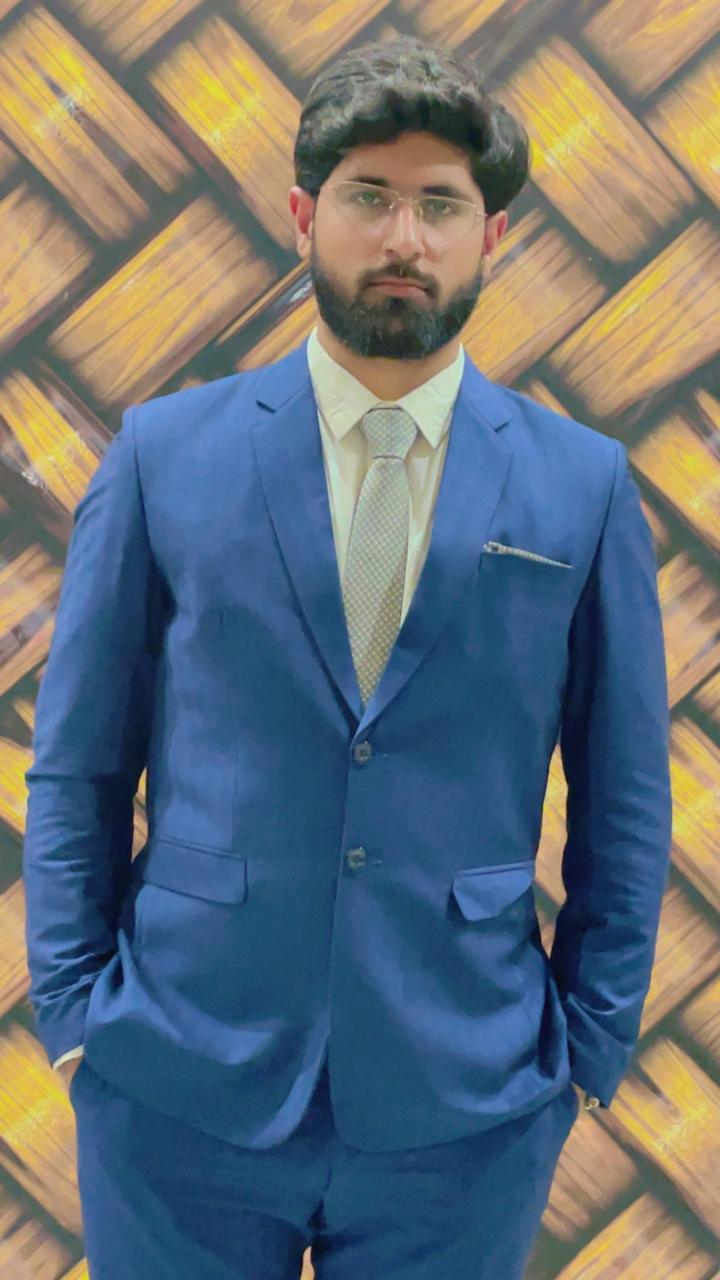
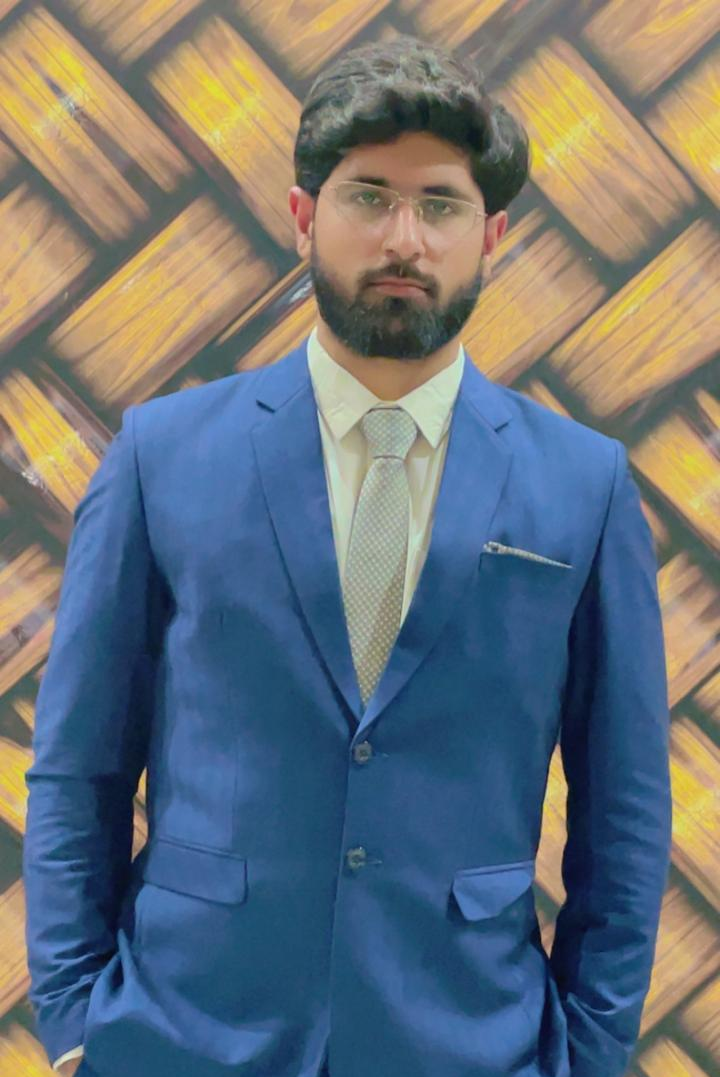
Update About page with new experience details and improve number formatting; replace profile image with updated version.

diff --git a/src/pages/about.jsx b/src/pages/about.jsx
@@ -22,8 +22,12 @@ const AnimatedNumbers = ({ value }) => {
 
   useEffect(() => {
     springValue.on("change", (latest) => {
-      if (ref.current && latest.toFixed(0) <= value) {
-        ref.current.textContent = latest.toFixed(0)
+      if (ref.current && latest <= value) {
+        if (value % 1 !== 0) {
+          ref.current.textContent = latest.toFixed(1)
+        } else {
+          ref.current.textContent = latest.toFixed(0)
+        }
       }
     })
   }, [springValue, value])
@@ -60,7 +64,7 @@ export default function About() {
               <p className="font-medium">
                 Hi, I&apos;m <span className="font-bold">Ahmad Hamza</span>, an
                 Associate Software Engineer and passionate Full Stack Web
-                Developer with over 2 years of professional experience in
+                Developer with over 3.5 years of professional experience in
                 building high-performance web applications. I am dedicated to
                 turning ideas and visions into innovative, responsive, and fully
                 functional web experiences.
@@ -88,7 +92,7 @@ export default function About() {
               <Image
                 src={ProfileImg}
                 alt="profile_image"
-                className="w-full h-auto rounded-2xl"
+                className="w-full max-h-[600px] h-auto object-cover rounded-2xl"
                 priority
                 sizes="(max-width: 768px) 100vw,
               (max-width: 1200px) 50vw,
@@ -108,10 +112,10 @@ export default function About() {
 
               <div className="flex flex-col items-end xl:items-center justify-center">
                 <span className="inline-block md:text-6xl sm:text-5xl xs:text-4xl text-7xl font-bold">
-                  <AnimatedNumbers value={24} />+
+                  <AnimatedNumbers value={3.5} />+
                 </span>
                 <h2 className="text-lg xl:text-center md:text-base sm:text-sm font-medium capitalize dark:text-light/75 text-dark/75">
-                  Months Of Experience
+                  Years Of Experience
                 </h2>
               </div>
             </div>
@@ -168,6 +172,72 @@ export default function About() {
                       <li>
                         Delivered production-ready web applications for both
                         startup and enterprise clients
+                      </li>
+                    </ul>
+                  </div>
+
+                  <div className="mb-8">
+                    <h3 className="text-2xl md:text-xl font-bold mb-2">
+                      Full Stack Developer
+                    </h3>
+                    <div className="flex items-center gap-2 mb-3 text-sm md:text-xs">
+                      <span className="font-semibold text-primary dark:text-primaryDark">
+                        Bravt Cloud
+                      </span>
+                      <span className="text-dark/75 dark:text-light/75">•</span>
+                      <span className="text-dark/75 dark:text-light/75">
+                        November 2024 – May 2025
+                      </span>
+                    </div>
+                    <p className="font-medium text-dark/75 dark:text-light/75 mb-4">
+                      Developed the frontend and backend of a cloud hosting
+                      platform with full ownership after team transitions.
+                    </p>
+                    <ul className="list-disc list-inside space-y-2 text-dark/75 dark:text-light/75 font-medium ml-4">
+                      <li>
+                        Delivered core features and maintained project
+                        continuity under tight deadlines
+                      </li>
+                      <li>
+                        Troubleshot critical issues, optimized performance, and
+                        improved platform reliability
+                      </li>
+                      <li>
+                        Collaborated with team members and maintained quality
+                        through reviews and iterative improvements
+                      </li>
+                    </ul>
+                  </div>
+
+                  <div className="mb-8">
+                    <h3 className="text-2xl md:text-xl font-bold mb-2">
+                      Full Stack Developer
+                    </h3>
+                    <div className="flex items-center gap-2 mb-3 text-sm md:text-xs">
+                      <span className="font-semibold text-primary dark:text-primaryDark">
+                        Zircon
+                      </span>
+                      <span className="text-dark/75 dark:text-light/75">•</span>
+                      <span className="text-dark/75 dark:text-light/75">
+                        April 2023 – December 2023
+                      </span>
+                    </div>
+                    <p className="font-medium text-dark/75 dark:text-light/75 mb-4">
+                      Developed a complete perfume e-commerce store with product
+                      listings, search, cart, and checkout flows.
+                    </p>
+                    <ul className="list-disc list-inside space-y-2 text-dark/75 dark:text-light/75 font-medium ml-4">
+                      <li>
+                        Implemented a clean, intuitive UI with optimized
+                        frontend performance
+                      </li>
+                      <li>
+                        Integrated backend APIs and designed smooth user
+                        navigation and shopping experience
+                      </li>
+                      <li>
+                        Ensured reliability through debugging, performance
+                        tuning, and architectural improvements
                       </li>
                     </ul>
                   </div>
